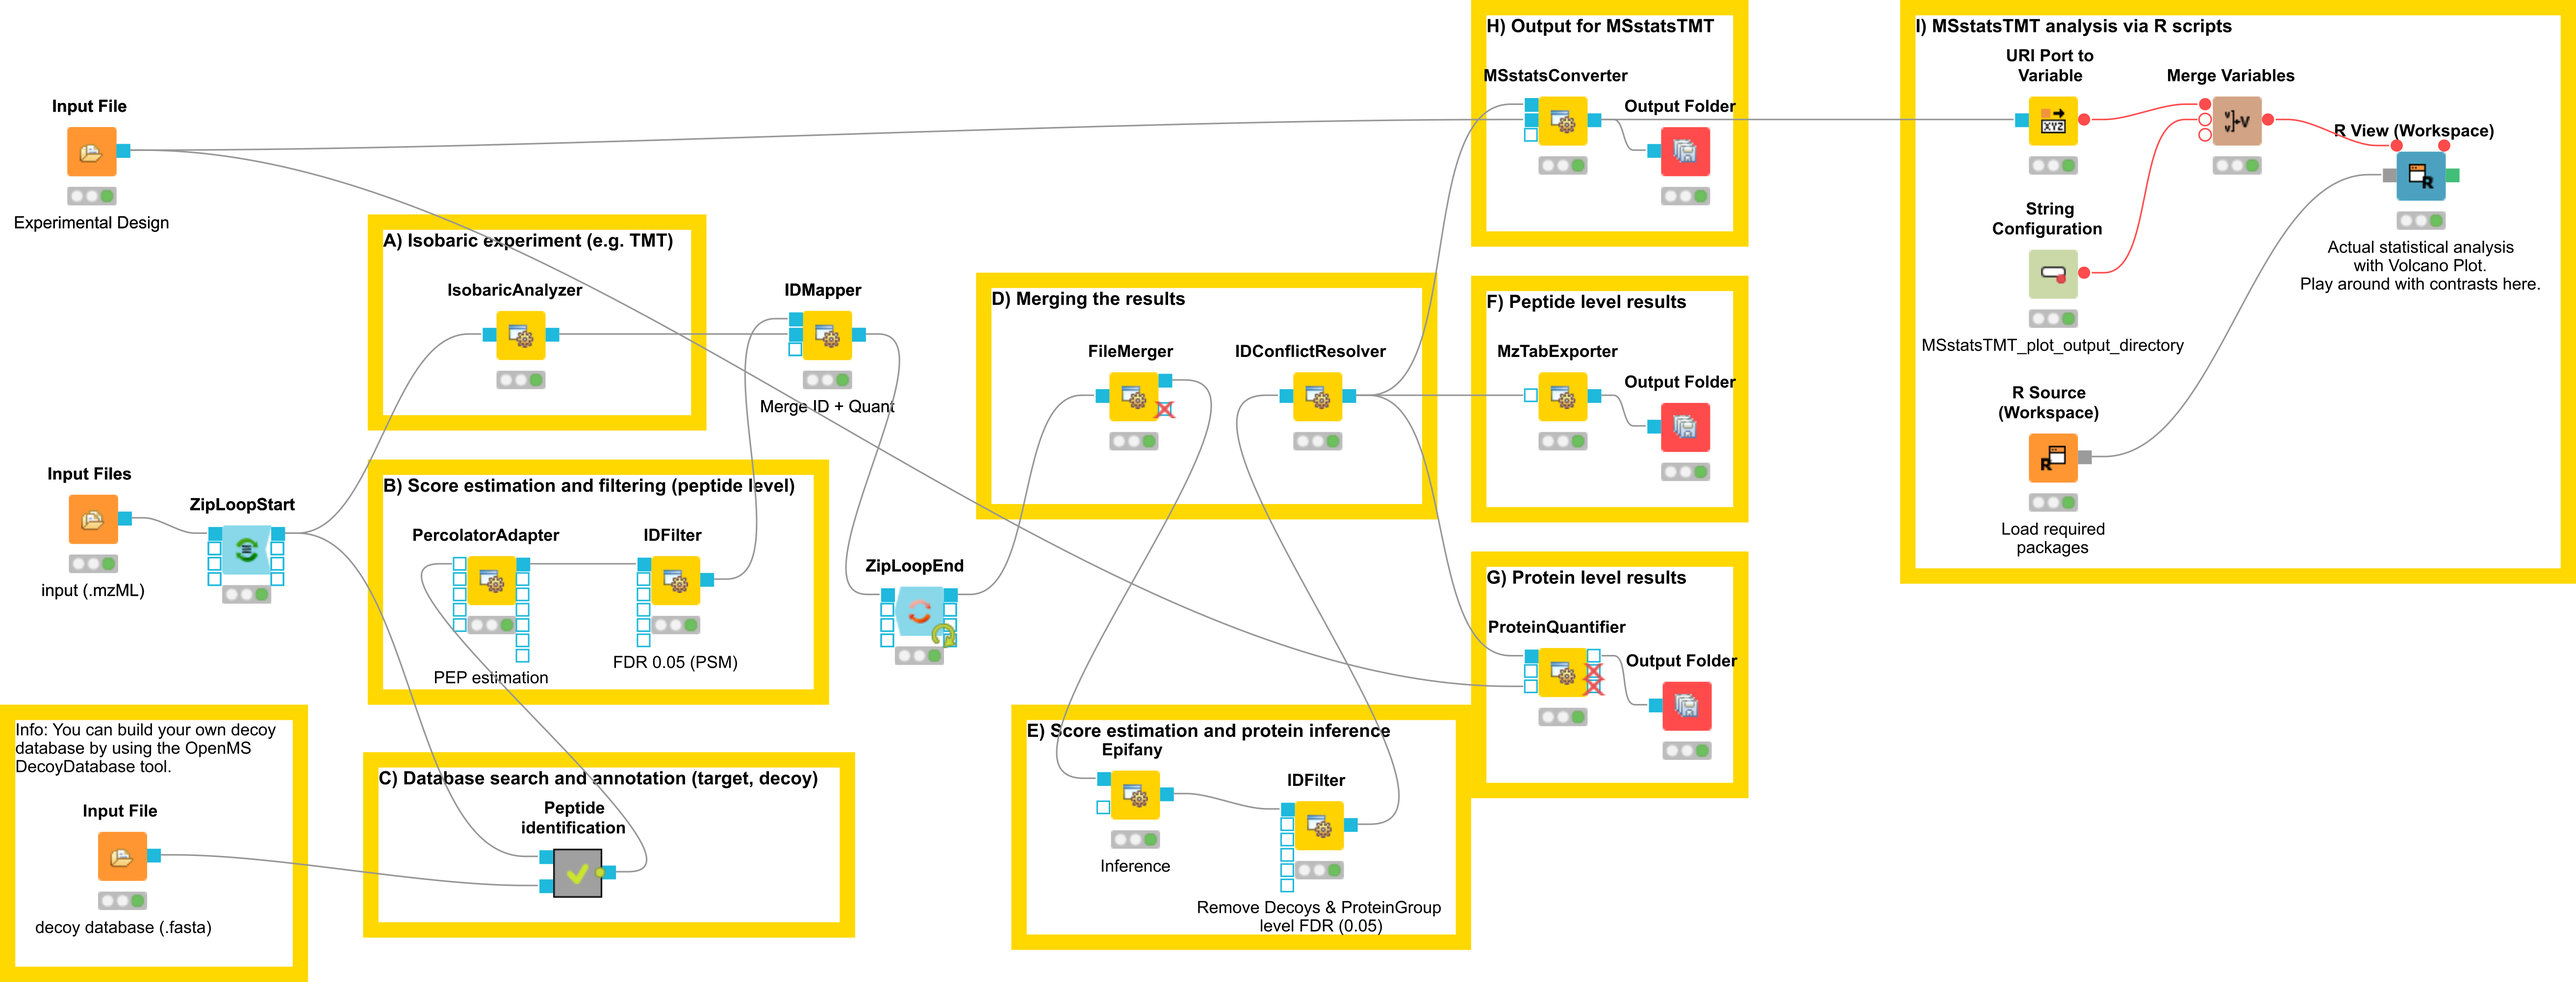
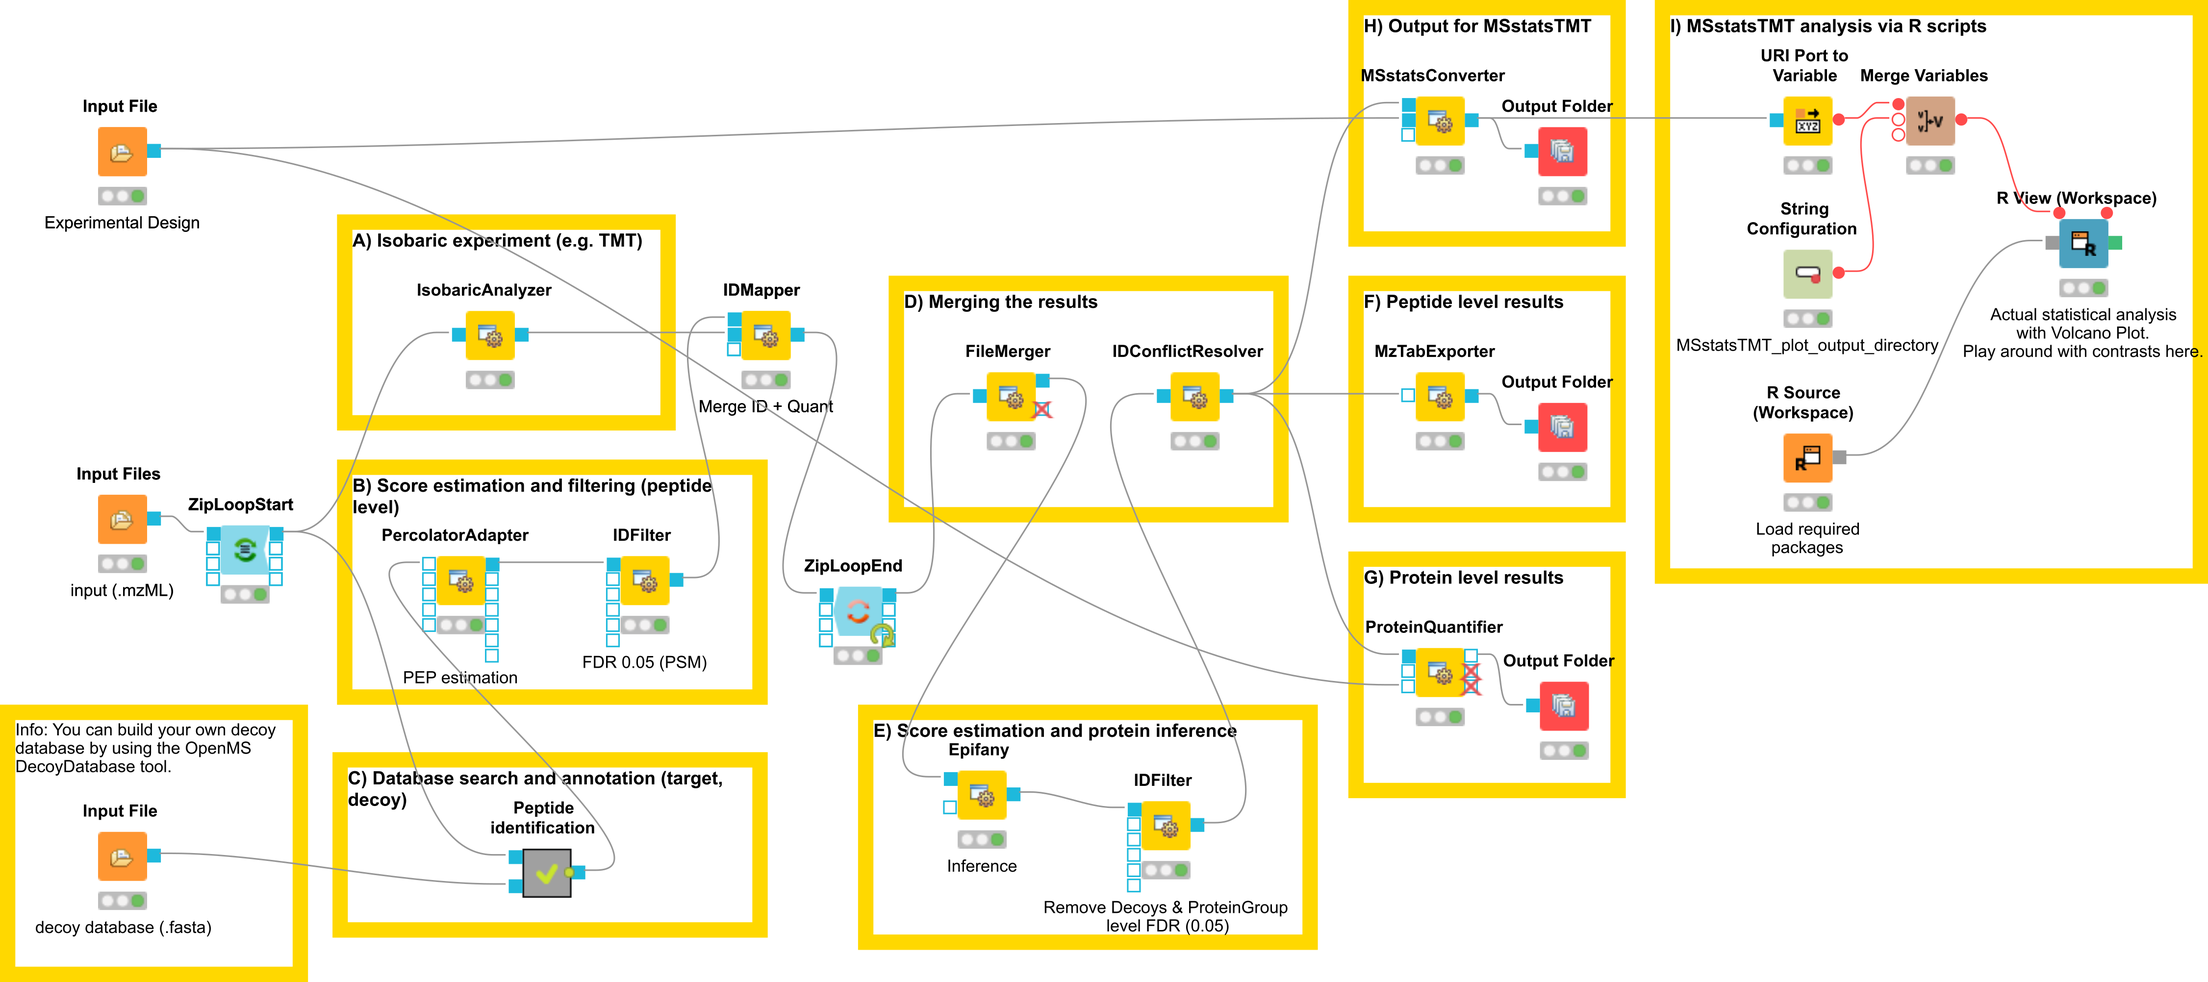
add MSstatsTMT and results

Changed region(s): [[0.0, 0.0, 0.9949, 1.0], [0.0, 0.0929, 0.1244, 0.2476], [0.4353, 0.5881, 0.4664, 0.6191]]

diff --git a/Handout/isobaric.tex b/Handout/isobaric.tex
@@ -5,7 +5,7 @@
 \section{Isobaric analysis}
 In the last chapters, we identified and quantified peptides in a label-free experiment. In this section, we would like to introduce a possible workflow for the analysis of isobaric data.
 
-\subsection{Workflow}
+\subsection{Isobaric analysis workflow}
 Let's have a look at the workflow (see Fig \ref{fig:isobaric_wf})
 
 \begin{figure}[htbp]
@@ -18,23 +18,21 @@ Let's have a look at the workflow (see Fig \ref{fig:isobaric_wf})
 \noindent The full analysis workflow can be found here: \\
 \directory{Workflows/ \\ Identification\_quantification\_isobaric\_inference\_epifany\_MSstatsTMT}. \\
 
-\noindent The workflow has three input nodes, the first for the experimental design to allow for MSstatsTMT compatible export (\KNIMENODE{MSstatsConverter}). The second for the .mzML files with the centroided spectra from the isobaric labeling experiment and the last one for the .fasta database used for identification. The quantification (A) is performed using the \KNIMENODE{IsobaricAnalzyer}. The tool is able to extract and normalize quantiative information from TMT and iTRAQ data. The values can be assessed from centroided MS2 or MS3 spectra (if available) isotope correction is performed based on the specified correction matrix (as provided by the manufacturer). The identification (C) is applied as known from the previous chapters by using database search and a target-decoy database.
+\noindent The workflow has four input nodes. The first for the experimental design to allow for MSstatsTMT compatible export (\KNIMENODE{MSstatsConverter}). The second for the .mzML files with the centroided spectra from the isobaric labeling experiment and the third one for the .fasta database used for identification. The last one allows to specify an output path for the plots generated by the \KNIMENODE{R View}, which runs MSstatsTMT (I). The quantification (A) is performed using the \KNIMENODE{IsobaricAnalzyer}. The tool is able to extract and normalize quantitative information from TMT and iTRAQ data. The values can be assessed from centroided MS2 or MS3 spectra (if available). Isotope correction is performed based on the specified correction matrix (as provided by the manufacturer). The identification (C) is applied as known from the previous chapters by using database search and a target-decoy database.
 
-\noindent The workflow performes inference on protein level  (B, D, F, H, G). To reduce the complexity of the data for later inference the q-value estimation and FDR filtering is performed on PSM level for each file individually (B). Afterwards the identification (PSM) and quantiative information is combined using the \KNIMENODE{IDMapper}. After the processing of all available files, the intermediate results are aggregated (\KNIMENODE{FileMerger}). All PSM results are used for score estimation and protein inference (E - \KNIMENODE{Epifany}). Then, decoys are removed and the inference results are filtered via a protein group FDR. Peptide level results can be exported via \KNIMENODE{MzTabExporter} (F), protein level results can be obtained via the \KNIMENODE{ProteinQuantifier} (G) or the results can exported (\KNIMENODE{MSstatsConverter}) and further processed with the following R pipeline to allow for downstream processing using MSstatsTMT. \\
+\noindent To reduce the complexity of the data for later inference the q-value estimation and FDR filtering is performed on PSM level for each file individually (B). Afterwards the identification (PSM) and quantiative information is combined using the \KNIMENODE{IDMapper}. After the processing of all available files, the intermediate results are aggregated (\KNIMENODE{FileMerger} - D). All PSM results are used for score estimation and protein inference (\KNIMENODE{Epifany}) (E). For detailed information about protein inference please see Chaper \ref{topic:protein_inference}. Then, decoys are removed and the inference results are filtered via a protein group FDR. Peptide level results can be exported via \KNIMENODE{MzTabExporter} (F), protein level results can be obtained via the \KNIMENODE{ProteinQuantifier} (G) or the results can exported (\KNIMENODE{MSstatsConverter} - H) and further processed with the following R pipeline to allow for downstream processing using MSstatsTMT. \\
 
 \noindent Please import the workflow from \directory{Workflows > \\ Identification\_quantification\_isobaric\_inference\_epifany\_MSstatsTMT} into KNIME via the menu entry \menu{File > Import KNIME workflow > Select file} and double-click the imported workflow in order to open it. Before you can execute the workflow, you have to correct the locations of the files in the \KNIMENODE{Input Files} nodes (don't forget the one for the FASTA database inside the ``ID'' meta node). Try and run your workflow by executing all nodes at once.
 
-\subsubsection{Excursion MSstatsTMT}
-The R package MSstatsTMT can be used for protein significance analysis in shotgun mass spectrometry-based proteomic experiments with tandem mass tag (TMT) labeling. MSstatsTMT provides functionality for two types of analysis: Protein summarization based on peptide quantification data and visualization and Model-based group comparison to detect significant changes in abundance. It depends on accurate feature detection, identification and quantification which can be performed e.g. by an OpenMS workflow. \\
+\subsection{Excursion MSstatsTMT}
+The R package MSstatsTMT can be used for protein significance analysis in shotgun mass spectrometry-based proteomic experiments with tandem mass tag (TMT) labeling. MSstatsTMT provides functionality for two types of analysis \& their visualization: Protein summarization based on peptide quantification and Model-based group comparison to detect significant changes in abundance. It depends on accurate feature detection, identification and quantification which can be performed e.g. by an OpenMS workflow. \\
 
 \noindent In general MSstatsTMT can be used for data processing \& visualization, as well as statistical modeling. Please see ~\cite{Huang2020} and \url{http://msstats.org/msstatstmt/} for further information. \\
 
-\noindent There is also a very nice online lecture and tutorial for MSstatsTMT from the May Institute Workshop 2020. Please see \url{https://youtu.be/3CDnrQxGLbA}
+\noindent There is also a very helpful online lecture and tutorial for MSstatsTMT from the May Institute Workshop 2020. Please see \url{https://youtu.be/3CDnrQxGLbA}
 
-\subsubsection{Dataset \& Experimental Design}
-We are using the MSV000084264 ground truth dataset, which consits of TMT10plex controlled mixes of different concentrated UPS1 peptides spiked into SILAC HeLa peptides measured in a dilution series \url{https://www.omicsdi.org/dataset/massive/MSV000084264}.
-
-\noindent Figure \ref{fig:isobaric_experimental_design} shows the experimental design of the experiment. Analysed are 5 different TMT10plex mixtures, which is measured in triplicates represented by the 15 runs (3 runs each). 
+\subsection{Dataset \& Experimental Design}
+We are using the MSV000084264 ground truth dataset, which consits of TMT10plex controlled mixes of different concentrated UPS1 peptides spiked into SILAC HeLa peptides measured in a dilution series \url{https://www.omicsdi.org/dataset/massive/MSV000084264}. Figure \ref{fig:isobaric_experimental_design} shows the experimental design. In this experiment 5 different TMT10plex mixtures -- different labeling strategies -- were analysed. These were measured in triplicates represented by the 15 MS runs (3 runs each). 
 
 \begin{figure}[htbp]
   \centering
@@ -43,13 +41,14 @@ We are using the MSV000084264 ground truth dataset, which consits of TMT10plex c
   \label{fig:isobaric_experimental_design}
 \end{figure}
   
-\noindent The experimental design in table format allows for MSstatsTMT compatible export. The design is represented by two tables. The first one \ref{t:isobaric_experimental_design_table_0} represents the overall structure of the experiment in terms of samples, the fractions, labels and fraction groups. The second one \ref{t:isobaric_experimental_design_table_1} add to the first by specifying specific conditions, biological replicates as well as the mixture and label for each channel. 
+\noindent The experimental design in table format allows for MSstatsTMT compatible export. The design is represented by two tables. The first one \ref{t:isobaric_experimental_design_table_0} represents the overall structure of the experiment in terms of samples, fractions, labels and fraction groups. The second one \ref{t:isobaric_experimental_design_table_1} adds to the first by specifying specific conditions, biological replicates as well as mixtures and label for each channel. For additional information about the experimental design please see Table  \ref{t:Experimental_design_exp} in Chapter \ref{topic:experimental_design}. 
 
 \begin{table}[ht]
+\caption{Experimental Design 1}
 \label{t:isobaric_experimental_design_table_0}
 \centering
-\small
-\begin{tabular*}{0.95\textwidth}{lllll}
+\tiny
+\begin{tabular*}{0.90\textwidth}{lllll}
 Spectra\_Filepath & Fraction & Label & Fraction\_Group & Sample \\
 161117\_SILAC\_HeLa\_UPS1\_TMT10\_SPS\_MS3\_Mixture1\_01.mzML & 1        & 1     & 1               & 1      \\
 161117\_SILAC\_HeLa\_UPS1\_TMT10\_SPS\_MS3\_Mixture1\_01.mzML & 1        & 2     & 1               & 2      \\
@@ -85,10 +84,11 @@ Spectra\_Filepath & Fraction & Label & Fraction\_Group & Sample \\
 \end{table}
   
 \begin{table}[ht]
+\caption{Experimental Design 2}
 \label{t:isobaric_experimental_design_table_1}
 \centering
-\small
-\begin{tabular*}{0.95\textwidth}{lllll}
+\tiny
+\begin{tabular*}{0.90\textwidth}{lllll}
 Sample & MSstats\_Condition & MSstats\_BioReplicate & MSstats\_Mixture & LabelName \\
 1      & Norm               & Norm                  & 1                & 126       \\
 2      & 0.667              & 0.667                 & 1                & 127N      \\
@@ -123,27 +123,101 @@ Sample & MSstats\_Condition & MSstats\_BioReplicate & MSstats\_Mixture & LabelNa
 \end{tabular*}
 \end{table}
 
-\noindent After running the worklfow the \KNIMENODE{MSstatsConverter} will convert the OpenMS output in addition with the experimental design to a file {.csv} which can be processed by using MSstatsTMT.
+\noindent After running the worklfow the \KNIMENODE{MSstatsConverter} will convert the OpenMS output in addition with the experimental design to a file (.csv) which can be processed by using MSstatsTMT.
 
-% TODO: Maybe show parts of the MSstatsTMT script
 \subsubsection{MSstatsTMT analysis}
-Here, we depict the analysis with MSstatsTMT by using a segment of the isobaric workflow. The segment is available as \directory{Workflows/ MSstatsTMT}. \\
+Here, we depict the analysis by MSstatsTMT using a segment of the isobaric analysis workflow (Fig. \ref{fig:isobaric_msstatstmtwf} ). The segment is available as \directory{Workflows/ MSstatsTMT.knwf}. \\
+
+\begin{figure}[htbp]
+\caption{MSstatsTMT workflow segment}
+\centering
+\includegraphics[width=0.80\textwidth]{graphics/isobaric/isobaric_msstatstmt_wf.png}
+ \label{fig:isobaric_msstatstmtwf}
+\end{figure}
+
+\noindent There are two input nodes, the first one takes the result (.csv) from the \KNIMENODE{MSstatsConverter} and the second a path to the directory where the plots generated by MSstatsTMT should be saved. The \KNIMENODE{R source} node loads the required packages, such as dplyr for data wrangling, MSstatsTMT for analysis and MSstats for plotting. The inputs are further processed in the \KNIMENODE{R View} node.  
+
+\noindent Here, the data of the \KNIMENODE{Input File} is loaded into R using the flow variable ["URI-0"]:
+\begin{lstlisting}
+file <- substr(knime.flow.in[["URI-0"]], 6, nchar(knime.flow.in[["URI-0"]]))
+MSstatsConverter_OpenMS_out <- read.csv(file)
+data <- MSstatsConverter_OpenMS_out
+\end{lstlisting}
+
+\noindent The OpenMStoMSstatsTMTFormat function preprocesses the OpenMS report and converts it into the required input format for MSstatsTMT, by filtering based on unique peptides and measurments in each MS run.
+
+\begin{lstlisting}
+processed.data <- OpenMStoMSstatsTMTFormat(data)
+\end{lstlisting}
+
+\noindent Afterwards different normalization steps are performed (global, protein, runs) as well as data imputation by using the msstats method. In addition peptide level data is summarized to protein level data. 
+
+\begin{lstlisting}
+quant.data <- proteinSummarization(processed.data,
+                                   method="msstats",
+                                   global_norm=TRUE,
+                                   reference_norm=TRUE,
+                                   MBimpute = TRUE,
+                                   maxQuantileforCensored = NULL,
+                                   remove_norm_channel = TRUE,
+                                   remove_empty_channel =  TRUE)
+\end{lstlisting}
+        
+\noindent There a lot of different possibilities to configure this method please have a look at the MSstatsTMT package for additional detailed information \url{http://bioconductor.org/packages/release/bioc/html/MSstatsTMT.html}                       
+
+\noindent The next step is the comparions of the different conditions, here either a pairwise comparision can be performed or a confusion matrix can be created. The goal is to detect and compare the UPS peptides spiked in at different concentrations. 
+
+\begin{lstlisting}
+# prepare contrast matrix
+unique(quant.data$Condition)
+
+comparison<-matrix(c(-1,0,0,1,
+                     0,-1,0,1,
+                     0,0,-1,1,
+                     0,1,-1,0,
+                     1,-1,0,0), nrow=5, byrow = T)
+                     
+# Set the names of each row
+row.names(comparison)<- contrasts <- c("1-0125",   
+                                       "1-05",  
+                                       "1-0667",
+                                       "05-0667",
+                                       "0125-05")
+# Set the column names
+colnames(comparison)<- c("0.125", "0.5", "0.667", "1")
+
+\end{lstlisting}
+
+\noindent The constructed confusion matrix is used in the groupComparisonTMT function to test for significant changes in protein abundance across conditions based on a family of linear mixed-effects models in TMT experiments. 
+
+\begin{lstlisting}
+data.res <- groupComparisonTMT(data = quant.data, 
+                               contrast.matrix = comparison,
+                               moderated = TRUE, # do moderated t test
+                               adj.method = "BH") # multiple comparison adjustment
+data.res <- data.res %>% filter(!is.na(Protein))
+\end{lstlisting}
+
+\noindent  In the next step the comparison can be plotted using the groupComparisonPlots function by MSstats
+
+\begin{lstlisting}
+library(MSstats)
+groupComparisonPlots(data=data.res.mod, type="VolcanoPlot", address=F, which.Comparison = "0125-05", sig = 0.05)
+\end{lstlisting}
+
+\noindent  Here, we have a example output of the \KNIMENODE{R View}, which depicts the significant regulated  UPS proteins in the comparison of 125 to 05 (Fig. \ref{fig:isobaric_volcanoplot}). 
 
 \begin{figure}[htbp]
   \centering
- \includegraphics[width=0.80\textwidth]{graphics/isobaric/isobaric_msstatstmt_wf.png}
-  \caption{MSstatsTMT workflow segment}
-  \label{fig:isobaric_dataset_ground_truth}
+ \includegraphics[width=0.80\textwidth]{graphics/isobaric/isobaric_img_output_knime.png}
+  \caption{Volcanoplot of the group comparison regarding 0125 to 05.}
+  \label{fig:isobaric_volcanoplot}
 \end{figure}
 
-
-% TODO: Show and interpret the output (VennDiagramm) MSstatsTMT
-
-% Add the stuff to the abimaster? ExampleData (.mzML) + Data + Database used fro the analysis. 
-
+\noindent  All plots are saved to the in the beginning specified output directory in addition. 
 
 \subsection{Note}
-The isobaric analysis does not always has to be performed on protein level, for example for phosphoproteomics studies one is usually only interested on the peptide level - in addition inference on peptides with post-translational modification is not straight forward. Here, we present and additonal workflow on peptide level, which can potentially be adapted and used for such cases. 
+The isobaric analysis does not always has to be performed on protein level, for example for phosphoproteomics studies one is usually  interested on the peptide level - in addition inference on peptides with post-translational modification is not straight forward. Here, we present and additonal workflow on peptide level, which can potentially be adapted and used for such cases. 
 Please see \directory{Workflows/Identification\_quantification\_isobaric\_MSstatsTMT}.
 
 

diff --git a/Handout/labelfree.tex b/Handout/labelfree.tex
@@ -259,6 +259,7 @@ against the MS2 from the original data (\KNIMENODE{Input Files} node with all mz
 Afterwards the results are scored using the \KNIMENODE{FalseDiscoveryRate} node and filtered to obtain only unique peptides (\KNIMENODE{IDFilter}) since MSstats does not support shared peptides, yet. The quantification is achieved by the \KNIMENODE{FeatureFinderCentroided}, which performs the feature detection on the samples (maps). In the end the quantification results are combined with the filtered identification results (\KNIMENODE{IDMapper}). In addition, a linear retention time alignment is performed (\KNIMENODE{MapAlignerPoseClustering}), followed by the feature linking process (\KNIMENODE{FeatureLinkerUnlabledQT}). The \KNIMENODE{ConsensusMapNormalizer} is used to normalize the intensities via robust regression over a set of maps and the \KNIMENODE{IDConflictResolver} assures that only one identification (best score) is associated with a feature. The output of this workflow is a consensusXML file, which can now be converted using the \KNIMENODE{MSstatsConverter} (see section \ref{sec:MSstatsConversion}). 
 
 \subsubsection{Experimental design}
+\label{topic:experimental_design}
 \noindent As mentioned before, the downstream analysis can be performed using MSstats. In this case an experimental design has to be specified for the OpenMS workflow. The structure of the experimental design used in OpenMS in case of the iPRG dataset is specified in Table~\ref{t:Experimental_design_iPRG}. An explanation of the variables can be found in Table~\ref{t:Experimental_design_exp}. 
 
 \begin{table}[!ht]

diff --git a/Handout/protein_inference.tex b/Handout/protein_inference.tex
@@ -1,4 +1,5 @@
 \section{Protein Inference}
+\label{topic:protein_inference}
 
 In the last chapter, we have successfully quantified peptides in a label-free experiment. As a next step, we will
 further extend this label-free quantification workflow by protein inference and protein quantification capabilities.
